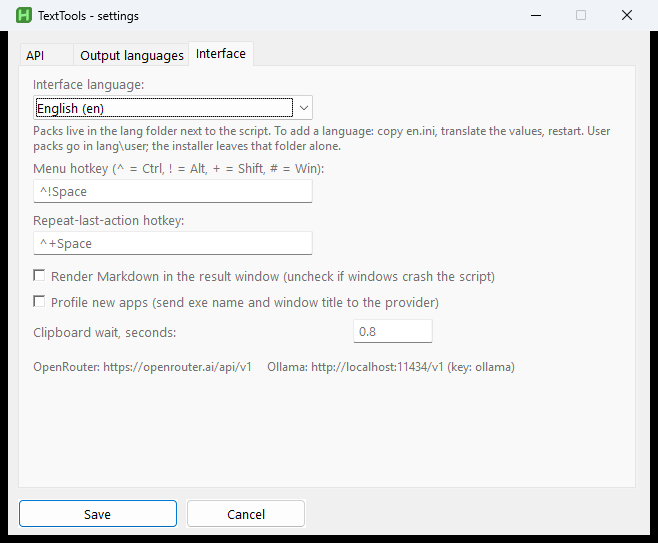
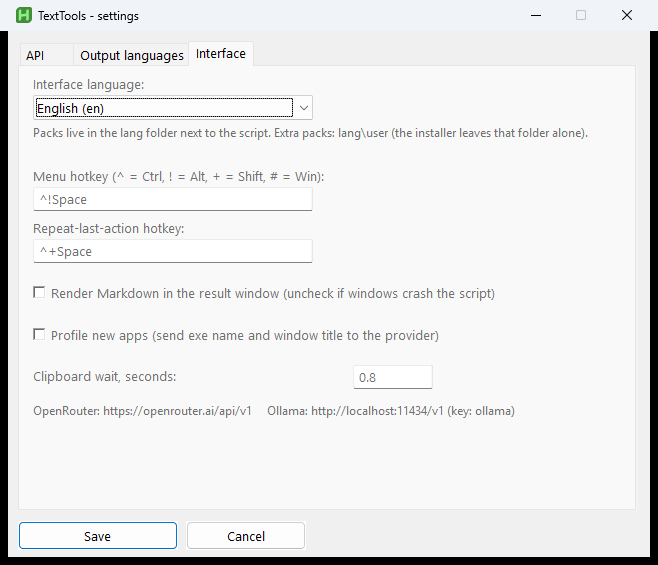
Gate the API proxy behind a checkbox and stop settings hints overlapping labels.

diff --git a/docs/en/index.html b/docs/en/index.html
@@ -45,9 +45,9 @@
             "name": "TextTools",
             "applicationCategory": "UtilitiesApplication",
             "operatingSystem": "Windows 10, Windows 11",
-            "softwareVersion": "0.2.1",
+            "softwareVersion": "0.2.2",
             "url": "https://belyaevad.github.io/TextTools/en/",
-            "downloadUrl": "https://github.com/BelyaevAD/TextTools/releases/tag/v0.2.1",
+            "downloadUrl": "https://github.com/BelyaevAD/TextTools/releases/tag/v0.2.2",
             "description": "AutoHotkey v2 script: select text in any Windows window, hotkey, OpenAI-compatible API actions.",
             "license": "https://github.com/BelyaevAD/TextTools/blob/main/LICENSE",
             "isAccessibleForFree": true,
@@ -114,7 +114,7 @@
             <h1>TextTools</h1>
             <p class="hero-lead">Select text in any app, hit the hotkey, pick what you want done. Proofreading, rewriting, summaries, tables, explaining code — that sort of thing. The result replaces the selection, or opens in its own window.</p>
             <div class="hero-actions">
-              <a class="button" href="https://github.com/BelyaevAD/TextTools/releases/tag/v0.2.1" target="_blank" rel="noopener noreferrer">Download v0.2.1</a>
+              <a class="button" href="https://github.com/BelyaevAD/TextTools/releases/tag/v0.2.2" target="_blank" rel="noopener noreferrer">Download v0.2.2</a>
               <a class="button secondary" href="https://github.com/BelyaevAD/TextTools/blob/main/docs/USER_GUIDE.md" target="_blank" rel="noopener noreferrer">Docs</a>
             </div>
             <div class="hero-meta" aria-label="Basics">
@@ -176,13 +176,13 @@
             </figure>
             <figure class="shot-card">
               <a href="../assets/screenshots/en/02-settings-api.png" target="_blank" rel="noopener">
-                <img src="../assets/screenshots/en/02-settings-api.png" width="658" height="515" alt="TextTools API settings" loading="lazy">
+                <img src="../assets/screenshots/en/02-settings-api.png" width="658" height="565" alt="TextTools API settings" loading="lazy">
               </a>
               <figcaption><strong>API</strong><span>Base URL, key, default model, model list</span></figcaption>
             </figure>
             <figure class="shot-card">
               <a href="../assets/screenshots/en/03-settings-ui.png" target="_blank" rel="noopener">
-                <img src="../assets/screenshots/en/03-settings-ui.png" width="658" height="515" alt="TextTools UI settings" loading="lazy">
+                <img src="../assets/screenshots/en/03-settings-ui.png" width="658" height="565" alt="TextTools UI settings" loading="lazy">
               </a>
               <figcaption><strong>UI</strong><span>Language and hotkeys for the menu and repeat-last</span></figcaption>
             </figure>
@@ -194,7 +194,7 @@
             </figure>
             <figure class="shot-card">
               <a href="../assets/screenshots/en/05-prompt-editor.png" target="_blank" rel="noopener">
-                <img src="../assets/screenshots/en/05-prompt-editor.png" width="663" height="548" alt="TextTools prompt editor" loading="lazy">
+                <img src="../assets/screenshots/en/05-prompt-editor.png" width="663" height="563" alt="TextTools prompt editor" loading="lazy">
               </a>
               <figcaption><strong>Prompt editor</strong><span>Task text, response language, model for that action</span></figcaption>
             </figure>

diff --git a/docs/index.html b/docs/index.html
@@ -45,9 +45,9 @@
             "name": "TextTools",
             "applicationCategory": "UtilitiesApplication",
             "operatingSystem": "Windows 10, Windows 11",
-            "softwareVersion": "0.2.1",
+            "softwareVersion": "0.2.2",
             "url": "https://belyaevad.github.io/TextTools/",
-            "downloadUrl": "https://github.com/BelyaevAD/TextTools/releases/tag/v0.2.1",
+            "downloadUrl": "https://github.com/BelyaevAD/TextTools/releases/tag/v0.2.2",
             "installUrl": "https://github.com/BelyaevAD/TextTools",
             "description": "Скрипт AutoHotkey v2: выделение текста в любом окне Windows, хоткей и действия через OpenAI-совместимый API.",
             "license": "https://github.com/BelyaevAD/TextTools/blob/main/LICENSE",
@@ -126,7 +126,7 @@
             <h1>TextTools</h1>
             <p class="hero-lead">Выдели текст в любом приложении, нажми хоткей — появится сетка действий. Вычитка, переписывание, краткое изложение, таблица, разбор кода и остальное. Результат либо встанет вместо выделения, либо откроется в отдельном окне.</p>
             <div class="hero-actions">
-              <a class="button" href="https://github.com/BelyaevAD/TextTools/releases/tag/v0.2.1" target="_blank" rel="noopener noreferrer">Скачать v0.2.1</a>
+              <a class="button" href="https://github.com/BelyaevAD/TextTools/releases/tag/v0.2.2" target="_blank" rel="noopener noreferrer">Скачать v0.2.2</a>
               <a class="button secondary" href="https://github.com/BelyaevAD/TextTools/blob/main/docs/USER_GUIDE.md" target="_blank" rel="noopener noreferrer">Документация</a>
             </div>
             <div class="hero-meta" aria-label="Кратко">
@@ -188,13 +188,13 @@
             </figure>
             <figure class="shot-card">
               <a href="assets/screenshots/ru/02-settings-api.png" target="_blank" rel="noopener">
-                <img src="assets/screenshots/ru/02-settings-api.png" width="658" height="515" alt="Настройки API TextTools" loading="lazy">
+                <img src="assets/screenshots/ru/02-settings-api.png" width="658" height="565" alt="Настройки API TextTools" loading="lazy">
               </a>
               <figcaption><strong>API</strong><span>Base URL, ключ, модель по умолчанию и список моделей</span></figcaption>
             </figure>
             <figure class="shot-card">
               <a href="assets/screenshots/ru/03-settings-ui.png" target="_blank" rel="noopener">
-                <img src="assets/screenshots/ru/03-settings-ui.png" width="658" height="515" alt="Настройки интерфейса TextTools" loading="lazy">
+                <img src="assets/screenshots/ru/03-settings-ui.png" width="658" height="565" alt="Настройки интерфейса TextTools" loading="lazy">
               </a>
               <figcaption><strong>Интерфейс</strong><span>Язык UI и хоткеи меню и повтора</span></figcaption>
             </figure>

diff --git a/docs/USER_GUIDE.md b/docs/USER_GUIDE.md
@@ -18,7 +18,7 @@ Install target: `%LOCALAPPDATA%\Scripts\TextTools\` via `install.ps1`.
 
 1. Install AutoHotkey v2
 2. Run `install.ps1`, or open `TextTools.ahk` directly
-3. Tray → **Settings** → API: Base URL, key, default model. Optional: HTTP/HTTPS/SOCKS **Proxy** (empty = direct; localhost Ollama skips it).
+3. Tray → **Settings** → API: Base URL, key, default model. Optional: tick **Proxy** and paste `http://user:pass@host:port` or `socks5h://host:port` (localhost Ollama skips it).
 4. Optional: **Load from provider** / **Recommended models**
 5. Select text anywhere → default hotkey `Ctrl+Alt+Space`
 
@@ -45,7 +45,7 @@ Any OpenAI-compatible `…/v1` base URL works. Examples:
 | OpenAI | `https://api.openai.com/v1` |
 | Ollama | `http://127.0.0.1:11434/v1` (any non-empty string as the “key”) |
 
-Optional `proxy` in Settings / `TextTools.ini` `[api]`: `http://user:pass@host:port`, `https://host:port`, `socks5://…`, `socks5h://…` (DNS through the proxy). `host:port` without a scheme is treated as HTTP. Loopback targets are not proxied.
+Optional `proxy` in Settings (checkbox **Proxy** / `proxy_on=1` in `TextTools.ini` `[api]`): `http://user:pass@host:port`, `https://host:port`, `socks5://…`, `socks5h://…`. `host:port` without a scheme is treated as HTTP. Loopback targets are not proxied. The URL is kept when the checkbox is off.
 
 Factory defaults in code: OpenRouter base URL, `anthropic/claude-haiku-4.5`, UI language `en`, hotkey `Ctrl+Alt+Space`.
 

diff --git a/README.en.md b/README.en.md
@@ -32,7 +32,7 @@ HTTP goes through system `curl.exe` — more stable than COM/WinHTTP inside the 
 - Repeat last action (`Ctrl+Shift+Space` by default)
 - Button/prompt editor and “where this text came from” profiles
 - Any OpenAI-compatible endpoint (OpenRouter, OpenAI, Anthropic proxies, local Ollama…)
-- Optional HTTP/HTTPS/SOCKS proxy for curl (`http://user:pass@host:port` or `socks5h://…`)
+- Optional HTTP/HTTPS/SOCKS proxy (checkbox on the API tab; `http://user:pass@host:port` or `socks5h://…`)
 - Default model plus per-action override
 - Token usage and cost estimate (OpenRouter catalog)
 - UI language via `lang/*.ini` packs

diff --git a/CHANGELOG.md b/CHANGELOG.md
@@ -1,5 +1,9 @@
 # Changelog
 
+## v0.2.2 — 2026-08-16
+
+Proxy field is gated by a checkbox; API/UI hint text no longer overlaps neighbouring labels.
+
 ## v0.2.1 — 2026-08-16
 
 Optional HTTP/HTTPS/SOCKS proxy for API calls via curl (`api.proxy` in Settings). Localhost (Ollama) stays direct.
